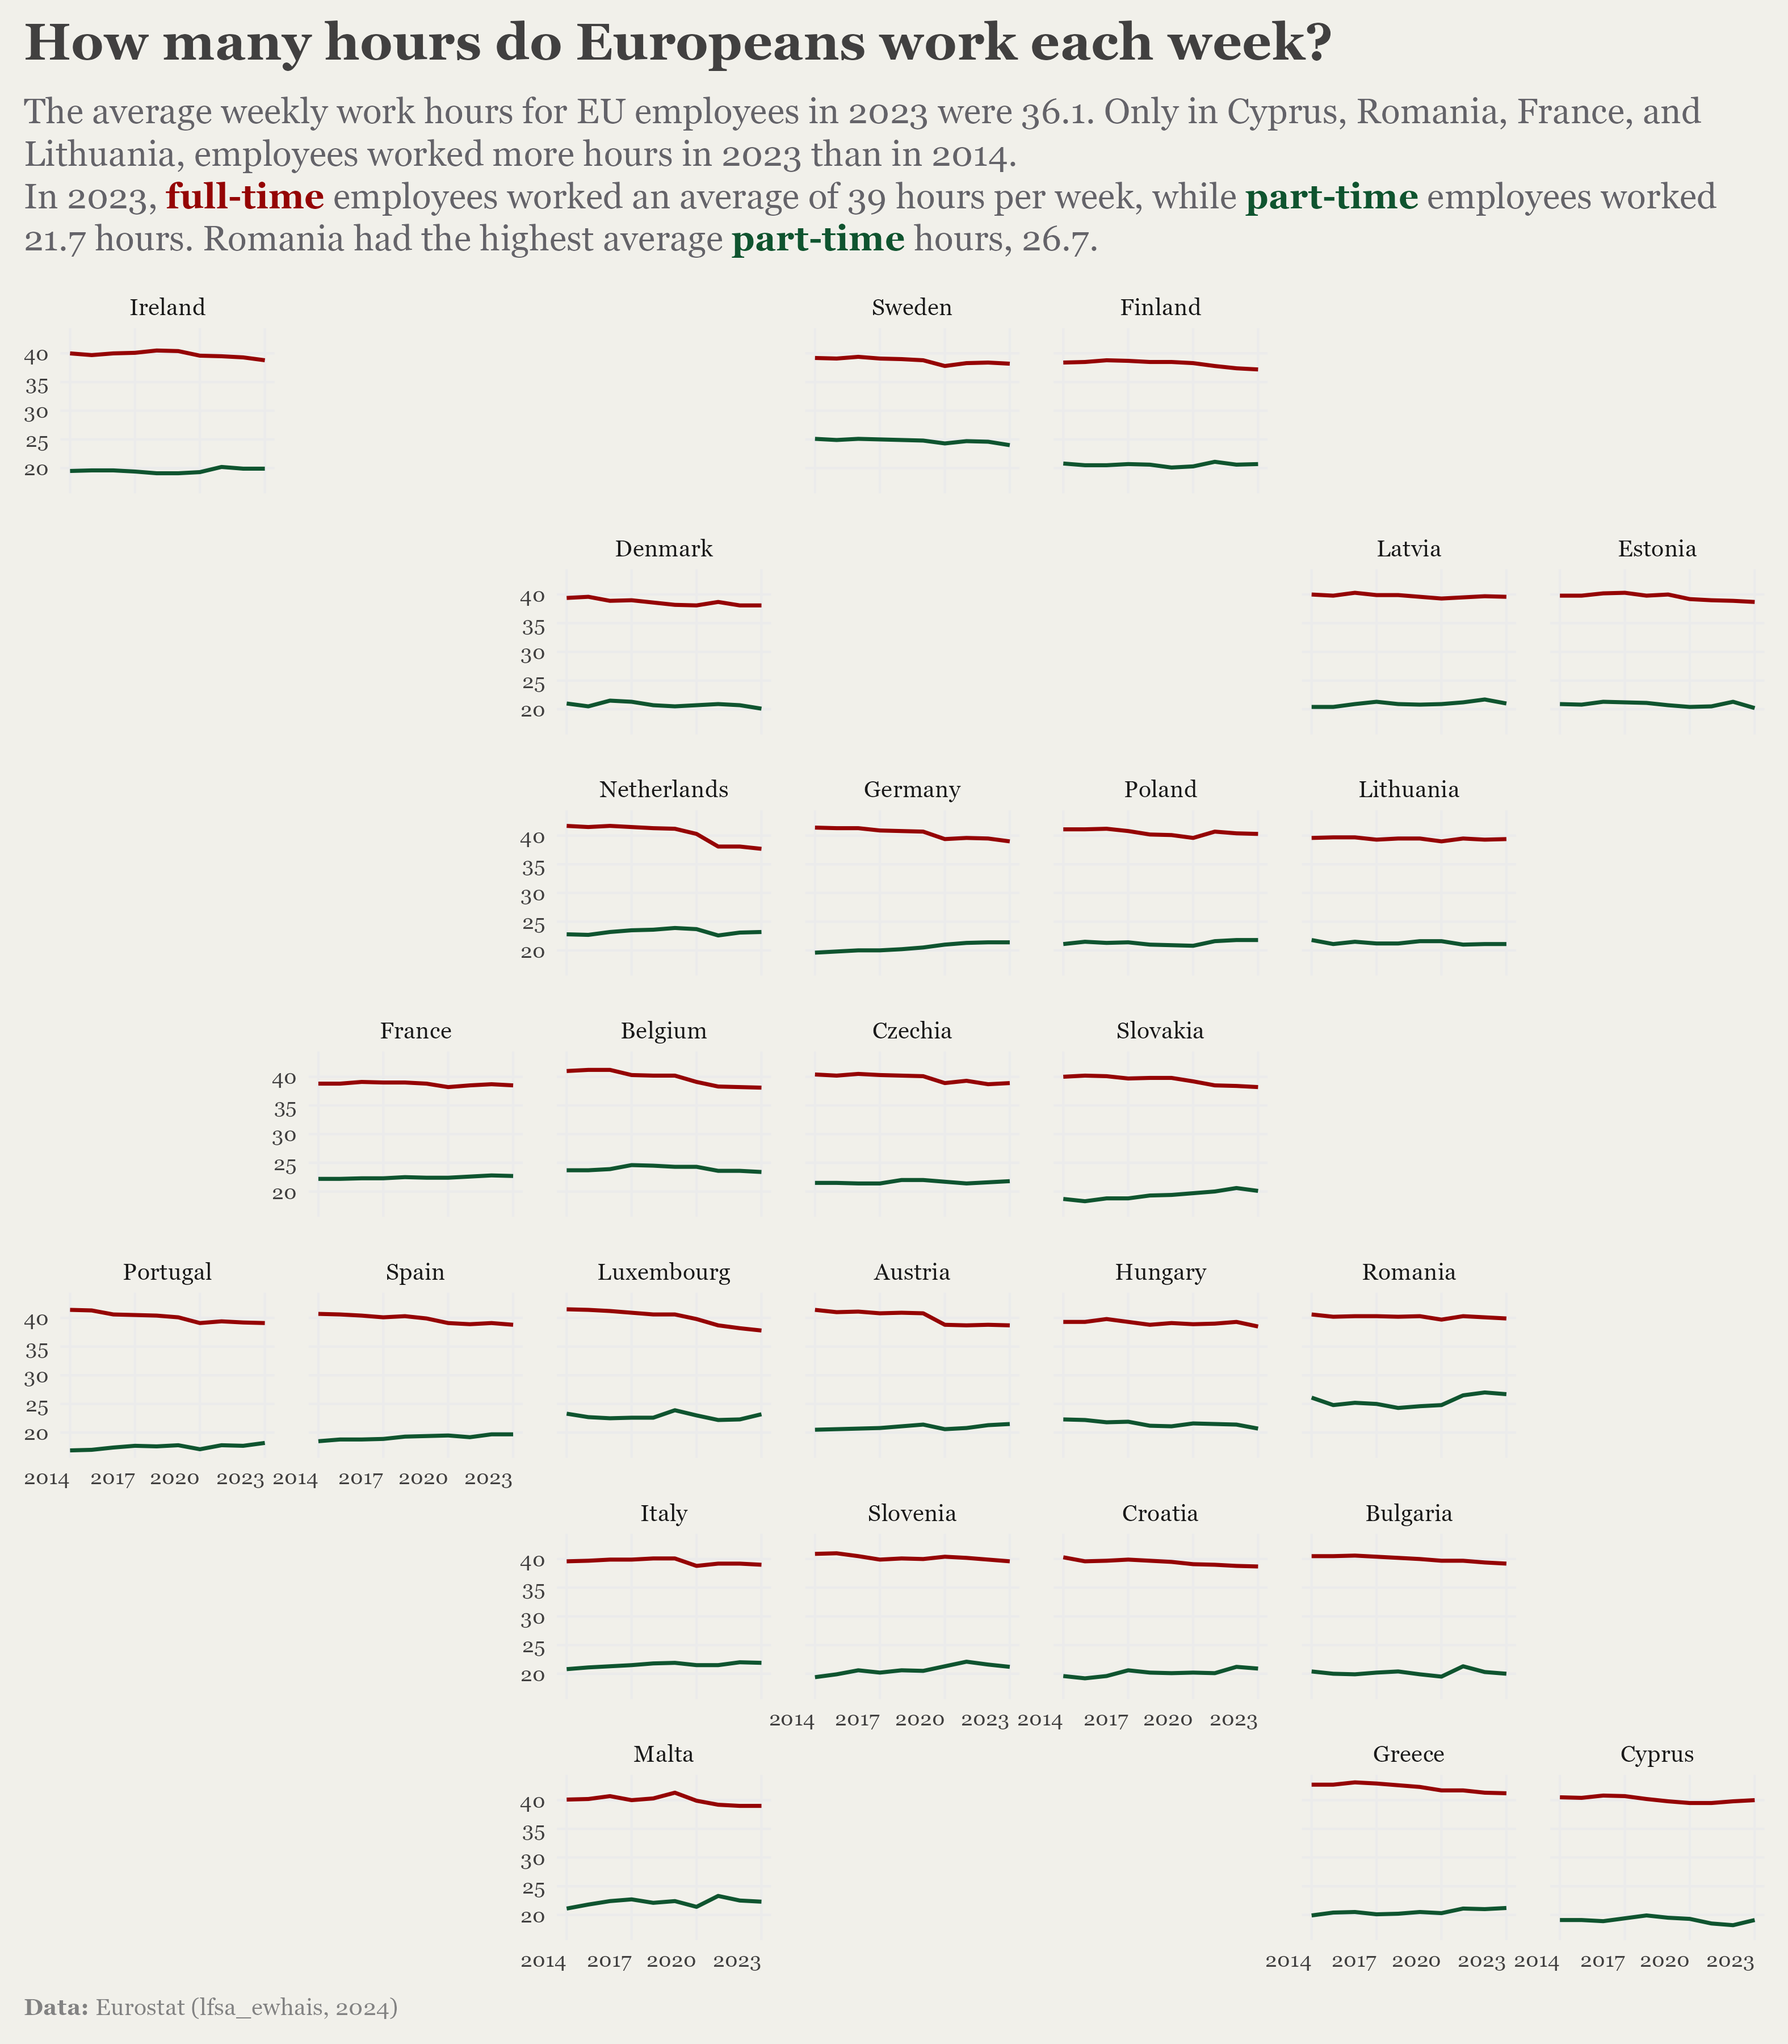
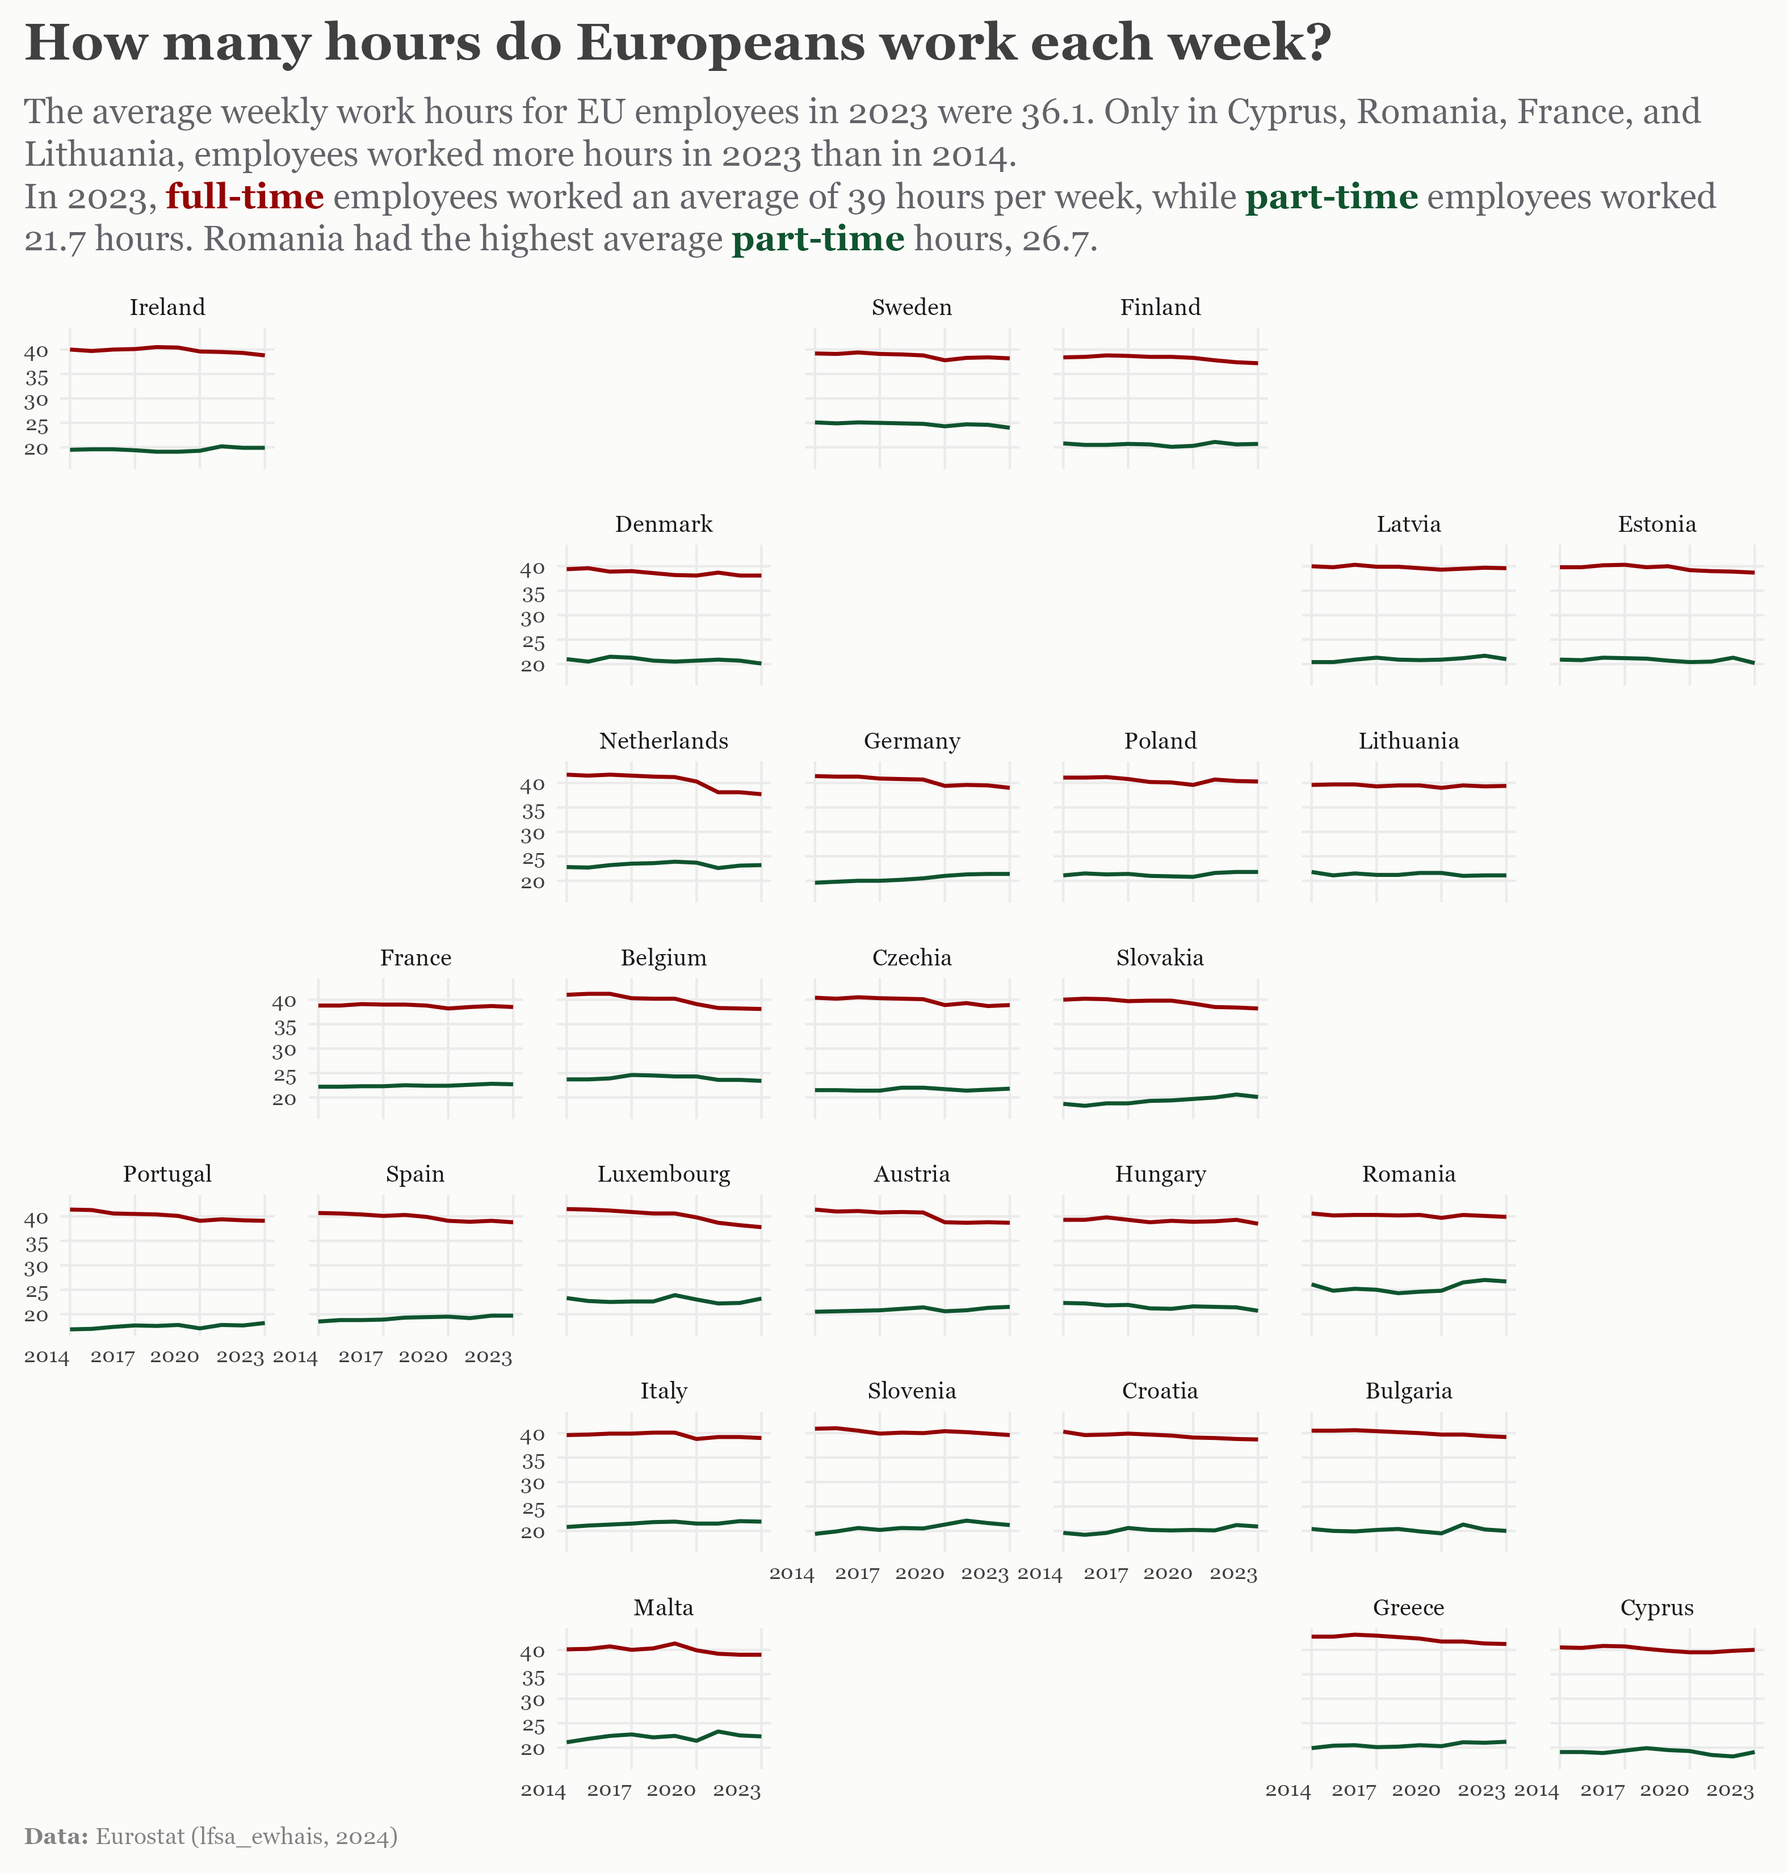
update

diff --git a/docs/weekly_dataviz/week_3_2024_09_16/index.html b/docs/weekly_dataviz/week_3_2024_09_16/index.html
@@ -217,7 +217,7 @@ pre > code.sourceCode > span > a:first-child::before { text-decoration: underlin
 <span><span class="va">palette_worktime</span> <span class="op">&lt;-</span> <span class="fu"><a href="https://rdrr.io/r/base/c.html">c</a></span><span class="op">(</span><span class="st">"Full-time"</span> <span class="op">=</span> <span class="st">"#950404FF"</span>,</span>
 <span>                      <span class="st">"Part-time"</span> <span class="op">=</span> <span class="st">"#0F542FFF"</span><span class="op">)</span></span>
 <span></span>
-<span><span class="va">bg_color</span> <span class="op">&lt;-</span> <span class="st">"#F1F0EA"</span></span>
+<span><span class="va">bg_color</span> <span class="op">&lt;-</span> <span class="st">"#FBFBF9"</span></span>
 <span></span>
 <span><span class="va">title</span> <span class="op">&lt;-</span> <span class="fu"><a href="https://rdrr.io/r/base/paste.html">paste0</a></span><span class="op">(</span><span class="st">"How many hours do Europeans work each week?"</span><span class="op">)</span></span>
 <span></span>
@@ -280,7 +280,7 @@ pre > code.sourceCode > span > a:first-child::before { text-decoration: underlin
 <span>        <span class="op">)</span> </span>
 <span></span>
 <span><span class="fu"><a href="https://ggplot2.tidyverse.org/reference/ggsave.html">ggsave</a></span><span class="op">(</span><span class="va">p</span>, filename <span class="op">=</span> <span class="st">"working_hours_eu.png"</span>, </span>
-<span>    height <span class="op">=</span> <span class="fl">12</span>, </span>
+<span>    height <span class="op">=</span> <span class="fl">11</span>, </span>
 <span>    width <span class="op">=</span> <span class="fl">10.5</span>,</span>
 <span>    bg <span class="op">=</span> <span class="va">bg_color</span>,</span>
 <span>    units <span class="op">=</span> <span class="st">"in"</span>, </span>
@@ -831,7 +831,7 @@ window.document.addEventListener("DOMContentLoaded", function (event) {
 <span id="cb2-45"><a href="#cb2-45" aria-hidden="true" tabindex="-1"></a>palette_worktime <span class="ot">&lt;-</span> <span class="fu">c</span>(<span class="st">"Full-time"</span> <span class="ot">=</span> <span class="st">"#950404FF"</span>,</span>
 <span id="cb2-46"><a href="#cb2-46" aria-hidden="true" tabindex="-1"></a>                      <span class="st">"Part-time"</span> <span class="ot">=</span> <span class="st">"#0F542FFF"</span>)</span>
 <span id="cb2-47"><a href="#cb2-47" aria-hidden="true" tabindex="-1"></a></span>
-<span id="cb2-48"><a href="#cb2-48" aria-hidden="true" tabindex="-1"></a>bg_color <span class="ot">&lt;-</span> <span class="st">"#F1F0EA"</span></span>
+<span id="cb2-48"><a href="#cb2-48" aria-hidden="true" tabindex="-1"></a>bg_color <span class="ot">&lt;-</span> <span class="st">"#FBFBF9"</span></span>
 <span id="cb2-49"><a href="#cb2-49" aria-hidden="true" tabindex="-1"></a></span>
 <span id="cb2-50"><a href="#cb2-50" aria-hidden="true" tabindex="-1"></a>title <span class="ot">&lt;-</span> <span class="fu">paste0</span>(<span class="st">"How many hours do Europeans work each week?"</span>)</span>
 <span id="cb2-51"><a href="#cb2-51" aria-hidden="true" tabindex="-1"></a></span>
@@ -894,7 +894,7 @@ window.document.addEventListener("DOMContentLoaded", function (event) {
 <span id="cb2-108"><a href="#cb2-108" aria-hidden="true" tabindex="-1"></a>        ) </span>
 <span id="cb2-109"><a href="#cb2-109" aria-hidden="true" tabindex="-1"></a></span>
 <span id="cb2-110"><a href="#cb2-110" aria-hidden="true" tabindex="-1"></a><span class="fu">ggsave</span>(p, <span class="at">filename =</span> <span class="st">"working_hours_eu.png"</span>, </span>
-<span id="cb2-111"><a href="#cb2-111" aria-hidden="true" tabindex="-1"></a>    <span class="at">height =</span> <span class="dv">12</span>, </span>
+<span id="cb2-111"><a href="#cb2-111" aria-hidden="true" tabindex="-1"></a>    <span class="at">height =</span> <span class="dv">11</span>, </span>
 <span id="cb2-112"><a href="#cb2-112" aria-hidden="true" tabindex="-1"></a>    <span class="at">width =</span> <span class="fl">10.5</span>,</span>
 <span id="cb2-113"><a href="#cb2-113" aria-hidden="true" tabindex="-1"></a>    <span class="at">bg =</span> bg_color,</span>
 <span id="cb2-114"><a href="#cb2-114" aria-hidden="true" tabindex="-1"></a>    <span class="at">units =</span> <span class="st">"in"</span>, </span>

diff --git a/docs/weekly_dataviz.html b/docs/weekly_dataviz.html
@@ -257,7 +257,7 @@ window.Quarto = {
 
 <div class="quarto-listing quarto-listing-container-default" id="listing-listing">
 <div class="list quarto-listing-default">
-<div class="quarto-post image-right" data-index="0" data-listing-date-sort="1726434000000" data-listing-file-modified-sort="1726559626426" data-listing-date-modified-sort="NaN" data-listing-reading-time-sort="7" data-listing-word-count-sort="1260">
+<div class="quarto-post image-right" data-index="0" data-listing-date-sort="1726434000000" data-listing-file-modified-sort="1726560095694" data-listing-date-modified-sort="NaN" data-listing-reading-time-sort="7" data-listing-word-count-sort="1260">
 <div class="thumbnail">
 <p><a href="./weekly_dataviz/week_3_2024_09_16/index.html" class="no-external"></a></p><a href="./weekly_dataviz/week_3_2024_09_16/index.html" class="no-external">
 <p><img loading="lazy" src="./weekly_dataviz/week_3_2024_09_16/working_hours_eu.png" class="thumbnail-image"></p>

diff --git a/docs/index.html b/docs/index.html
@@ -360,7 +360,7 @@ No matching items
 <h2 data-anchor-id="weekly-dataviz">Weekly DataViz</h2>
 <div id="listing-weekly_dataviz" class="quarto-listing quarto-listing-container-grid">
 <div class="list grid quarto-listing-cols-3">
-<div class="g-col-1" data-index="0" data-listing-date-sort="1726434000000" data-listing-file-modified-sort="1726559626426" data-listing-date-modified-sort="NaN" data-listing-reading-time-sort="7" data-listing-word-count-sort="1260">
+<div class="g-col-1" data-index="0" data-listing-date-sort="1726434000000" data-listing-file-modified-sort="1726560095694" data-listing-date-modified-sort="NaN" data-listing-reading-time-sort="7" data-listing-word-count-sort="1260">
 <a href="./weekly_dataviz/week_3_2024_09_16/index.html" class="quarto-grid-link">
 <div class="quarto-grid-item card h-100 card-left">
 <p class="card-img-top">
